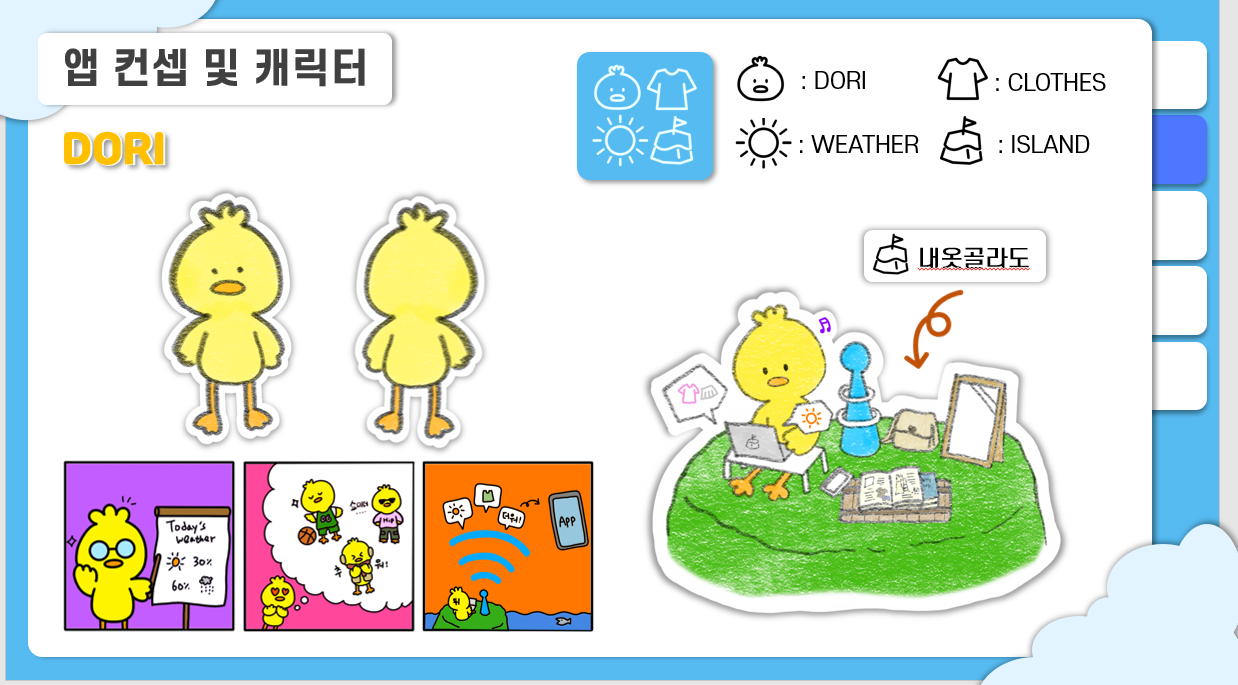
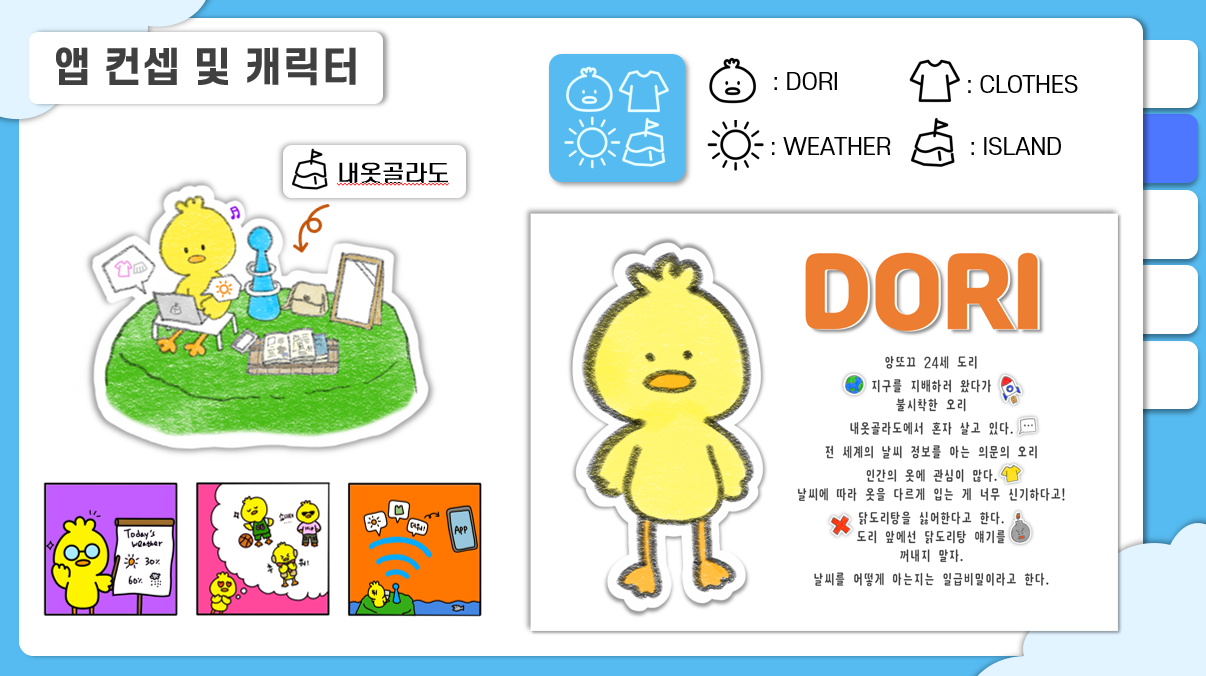
modified

diff --git a/README.md b/README.md
@@ -27,6 +27,7 @@
 
 ## 캐릭터 소개
 
+<img src="src/도리.png" width="837" height="473"/>
 <img src="src/앙또끄도리24.png" width="837" height="473"/>
 
 > 앙또끄 24살 도리
@@ -46,6 +47,13 @@
 메인 화면에서는 기본적인 날씨 정보를 제공합니다. 사용자의 위치에 맞는 실시간 날씨 정보를 제공하며,
 대기질지수, 미세먼지에 대한 정보도 함께 제공됩니다. 앱 화면의 버튼을 누르면 현재 날씨에 맞는 옷차림을 추천 받는 화면으로 넘어가게
 됩니다.
+
+<p align="center">
+<img src="src/메인화면.jpg" width="200" height="400"/>
+</p>
+한국 에너지 공단에서 제공해주는 "기온에 따른 옷차림" 자료를 토대로 옷차림을 추천해줍니다.
+옷차림에 대한 팁도 알려줍니다.
+만약 내 휴대폰에 저장하고 싶거나, 다른 사람들에게 공유하고 싶다면 각각 해당되는 버튼을 눌러서 넘어가게 합니다.
 
 <p align="center">
 <img src="src/피드백화면1.png" width="200" height="400"/>

diff --git a/index.md b/index.md
@@ -28,7 +28,7 @@
 <p align="center">
 <img src="src/앙또끄도리24.png" width="500" height="300"/>
 </p>
-
+ㅇㄴㄻㄴㅇㄹㄴㅁㄹ
 > 앙또끄 24살 도리
 >
 > 지구를 지배하러 왔다가 불시착한 오리. 내옷구해도에서 살고 있다.
